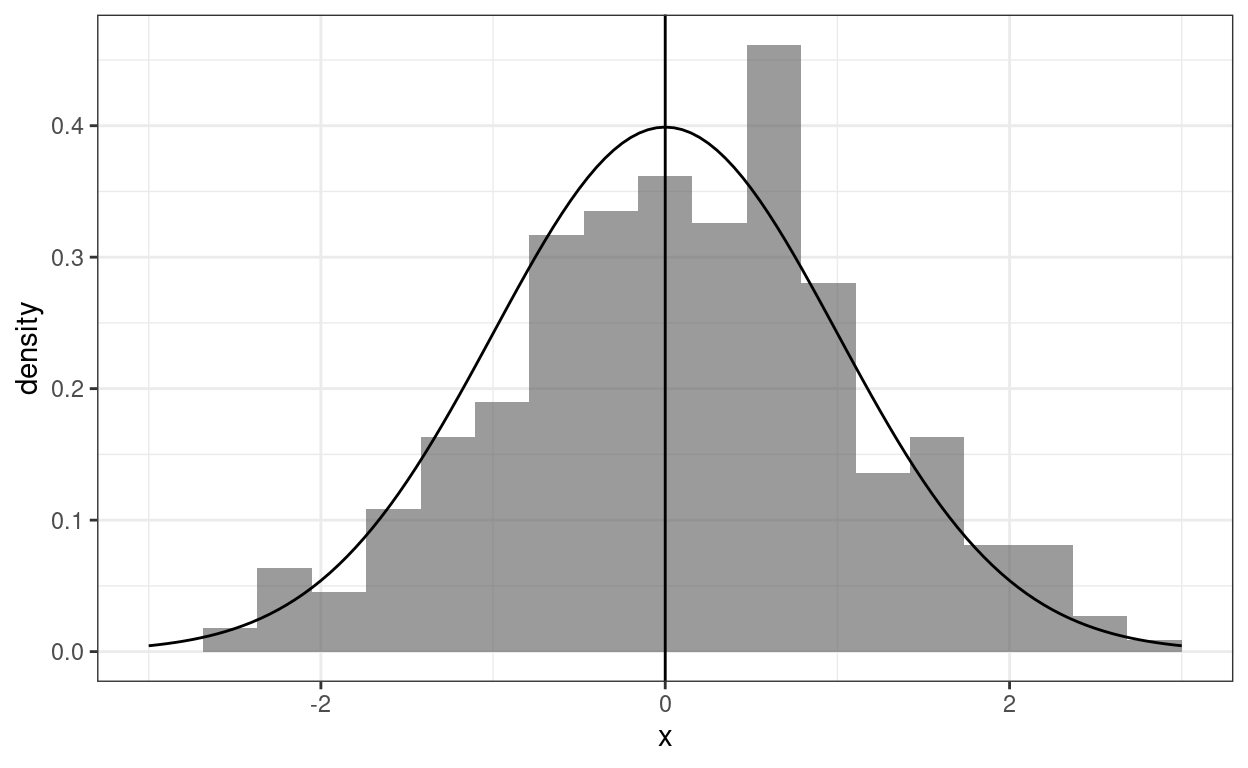
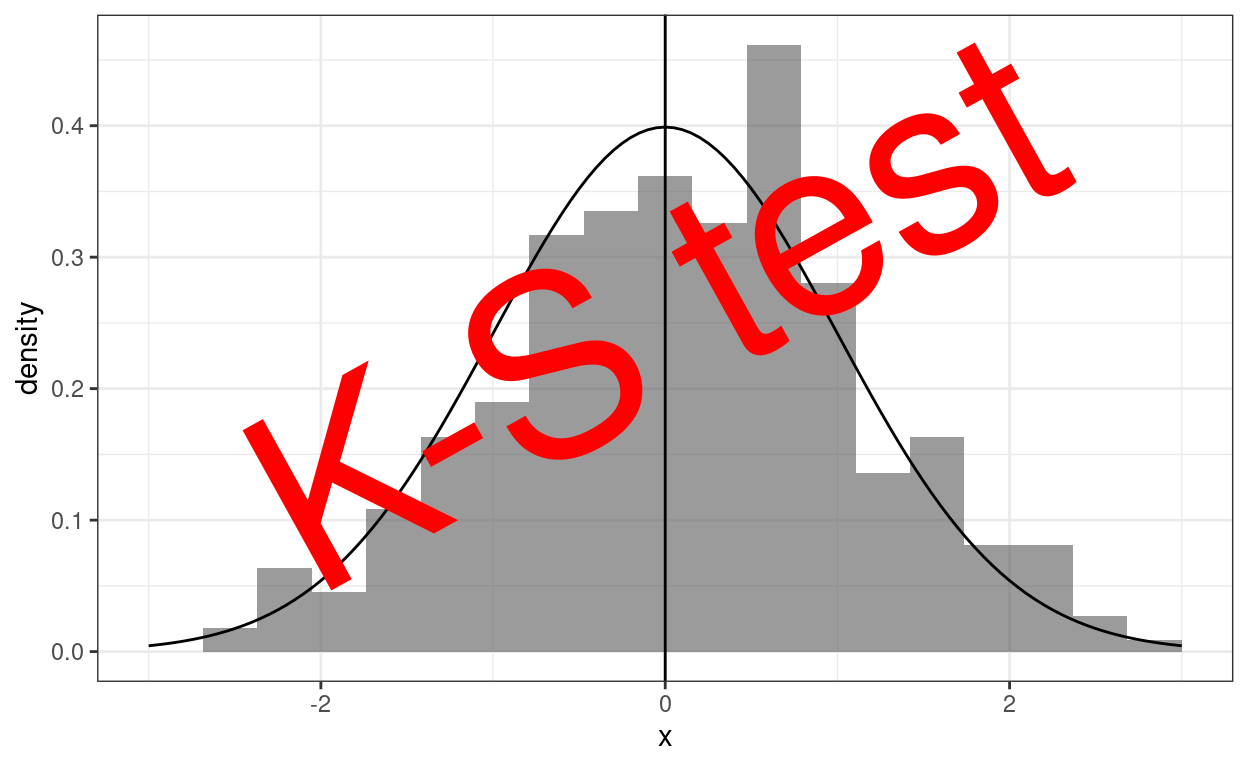
Tweaking the graphics of K-S test, distribution plots and distribution tests

Changed region(s): [[0.5312, 0.0625, 0.875, 0.4688], [0.3438, 0.3438, 0.5312, 0.625], [0.1875, 0.4688, 0.375, 0.7812]]

diff --git a/_site/posts/2023-11-18-explore-distributions-with-plots/index.html b/_site/posts/2023-11-18-explore-distributions-with-plots/index.html
@@ -133,7 +133,7 @@ code span.wa { color: #5e5e5e; font-style: italic; } /* Warning */
   <!--radix_placeholder_rmarkdown_metadata-->
 
 <script type="text/json" id="radix-rmarkdown-metadata">
-{"type":"list","attributes":{"names":{"type":"character","attributes":{},"value":["title","description","author","preview","date","categories","output","creative_commons","citation_url","canonical_url"]}},"value":[{"type":"character","attributes":{},"value":["Explore distributions with plots"]},{"type":"character","attributes":{},"value":["Graphical exploration of fit between distributions and against theoretical distributions."]},{"type":"list","attributes":{},"value":[{"type":"list","attributes":{"names":{"type":"character","attributes":{},"value":["name","url","affiliation","affiliation_url","orcid_id"]}},"value":[{"type":"character","attributes":{},"value":["Chris Evans"]},{"type":"character","attributes":{},"value":["https://www.psyctc.org/R_blog/"]},{"type":"character","attributes":{},"value":["PSYCTC.org"]},{"type":"character","attributes":{},"value":["https://www.psyctc.org/psyctc/"]},{"type":"character","attributes":{},"value":["0000-0002-4197-4202"]}]}]},{"type":"character","attributes":{},"value":["KStest.png"]},{"type":"character","attributes":{},"value":["2023-11-18"]},{"type":"character","attributes":{},"value":["R tricks","R graphics","distributions","Null hypothesis tests (NHSTs)","Gaussian distribution"]},{"type":"list","attributes":{"names":{"type":"character","attributes":{},"value":["distill::distill_article"]}},"value":[{"type":"list","attributes":{"names":{"type":"character","attributes":{},"value":["toc","toc_depth","hightlight_downlit","self_contained","code_folding"]}},"value":[{"type":"logical","attributes":{},"value":[true]},{"type":"integer","attributes":{},"value":[4]},{"type":"logical","attributes":{},"value":[true]},{"type":"logical","attributes":{},"value":[false]},{"type":"logical","attributes":{},"value":[true]}]}]},{"type":"character","attributes":{},"value":["CC BY-SA"]},{"type":"character","attributes":{},"value":["https://www.psyctc.org/R_blog/posts/2023-11-18-explore-distributions-with-plots/"]},{"type":"character","attributes":{},"value":["https://www.psyctc.org/R_blog/posts/2023-11-18-explore-distributions-with-plots/"]}]}
+{"type":"list","attributes":{"names":{"type":"character","attributes":{},"value":["title","description","author","preview","date","categories","output","creative_commons","citation_url","canonical_url"]}},"value":[{"type":"character","attributes":{},"value":["Explore distributions with plots"]},{"type":"character","attributes":{},"value":["Graphical exploration of fit between distributions and against theoretical distributions."]},{"type":"list","attributes":{},"value":[{"type":"list","attributes":{"names":{"type":"character","attributes":{},"value":["name","url","affiliation","affiliation_url","orcid_id"]}},"value":[{"type":"character","attributes":{},"value":["Chris Evans"]},{"type":"character","attributes":{},"value":["https://www.psyctc.org/R_blog/"]},{"type":"character","attributes":{},"value":["PSYCTC.org"]},{"type":"character","attributes":{},"value":["https://www.psyctc.org/psyctc/"]},{"type":"character","attributes":{},"value":["0000-0002-4197-4202"]}]}]},{"type":"character","attributes":{},"value":["distPlots.png"]},{"type":"character","attributes":{},"value":["2023-11-18"]},{"type":"character","attributes":{},"value":["R tricks","R graphics","distributions","Null hypothesis tests (NHSTs)","Gaussian distribution"]},{"type":"list","attributes":{"names":{"type":"character","attributes":{},"value":["distill::distill_article"]}},"value":[{"type":"list","attributes":{"names":{"type":"character","attributes":{},"value":["toc","toc_depth","hightlight_downlit","self_contained","code_folding"]}},"value":[{"type":"logical","attributes":{},"value":[true]},{"type":"integer","attributes":{},"value":[4]},{"type":"logical","attributes":{},"value":[true]},{"type":"logical","attributes":{},"value":[false]},{"type":"logical","attributes":{},"value":[true]}]}]},{"type":"character","attributes":{},"value":["CC BY-SA"]},{"type":"character","attributes":{},"value":["https://www.psyctc.org/R_blog/posts/2023-11-18-explore-distributions-with-plots/"]},{"type":"character","attributes":{},"value":["https://www.psyctc.org/R_blog/posts/2023-11-18-explore-distributions-with-plots/"]}]}
 </script>
 <!--/radix_placeholder_rmarkdown_metadata-->
   
@@ -2611,7 +2611,16 @@ Show code
 <span>  <span class='fu'><a href='https://ggplot2.tidyverse.org/reference/geom_path.html'>geom_line</a></span><span class='op'>(</span>data <span class='op'>=</span> <span class='va'>tibDnorm</span>,</span>
 <span>            inherit.aes <span class='op'>=</span> <span class='cn'>FALSE</span>,</span>
 <span>            <span class='fu'><a href='https://ggplot2.tidyverse.org/reference/aes.html'>aes</a></span><span class='op'>(</span>x <span class='op'>=</span> <span class='va'>x</span>, y <span class='op'>=</span> <span class='va'>y</span><span class='op'>)</span><span class='op'>)</span>  <span class='op'>+</span></span>
-<span>  <span class='fu'><a href='https://ggplot2.tidyverse.org/reference/geom_abline.html'>geom_vline</a></span><span class='op'>(</span>xintercept <span class='op'>=</span> <span class='fl'>0</span><span class='op'>)</span></span></code></pre>
+<span>  <span class='fu'><a href='https://ggplot2.tidyverse.org/reference/geom_abline.html'>geom_vline</a></span><span class='op'>(</span>xintercept <span class='op'>=</span> <span class='fl'>0</span><span class='op'>)</span> <span class='op'>+</span></span>
+<span>  <span class='co'>### paramters work for knitted output</span></span>
+<span>  <span class='fu'><a href='https://ggplot2.tidyverse.org/reference/annotate.html'>annotate</a></span><span class='op'>(</span><span class='st'>"text"</span>,</span>
+<span>           label <span class='op'>=</span> <span class='st'>"Distribution plots"</span>,</span>
+<span>           x <span class='op'>=</span> <span class='op'>-</span><span class='fl'>2.8</span>,</span>
+<span>           y <span class='op'>=</span> <span class='fl'>.07</span>,</span>
+<span>           colour <span class='op'>=</span> <span class='st'>"red"</span>,</span>
+<span>           size <span class='op'>=</span> <span class='fl'>19</span>,</span>
+<span>           angle <span class='op'>=</span> <span class='fl'>29</span>,</span>
+<span>           hjust <span class='op'>=</span> <span class='fl'>0</span><span class='op'>)</span></span></code></pre>
 </div>
 </details>
 <img src="explore-distributions-with-plots_files/figure-html5/makegraphic-1.png" width="624" />
@@ -2620,7 +2629,30 @@ Show code
 Show code
 </summary>
 <div class="sourceCode">
-<pre class="sourceCode r"><code class="sourceCode r"><span><span class='co'># dev.off()</span></span></code></pre>
+<pre class="sourceCode r"><code class="sourceCode r"><span><span class='co'># dev.off()</span></span>
+<span></span>
+<span><span class='co'>### different sizing to get nice png</span></span>
+<span><span class='co'># png(file = "distPlots.png", type = "cairo", width = 6000, height = 4800, res = 300)</span></span>
+<span><span class='co'># ggplot(data = tibRnorm,</span></span>
+<span><span class='co'>#        aes(x = x)) +</span></span>
+<span><span class='co'>#   geom_histogram(aes(x = x,</span></span>
+<span><span class='co'>#                      after_stat(density)),</span></span>
+<span><span class='co'>#                  bins = 20,</span></span>
+<span><span class='co'>#                  alpha = .6) +</span></span>
+<span><span class='co'>#   geom_line(data = tibDnorm,</span></span>
+<span><span class='co'>#             inherit.aes = FALSE,</span></span>
+<span><span class='co'>#             aes(x = x, y = y))  +</span></span>
+<span><span class='co'>#   geom_vline(xintercept = 0) +</span></span>
+<span><span class='co'>#   ### changed parameters for the png</span></span>
+<span><span class='co'>#   annotate("text",</span></span>
+<span><span class='co'>#            label = "Dist. plots",</span></span>
+<span><span class='co'>#            x = -2.5,</span></span>
+<span><span class='co'>#            y = .1,</span></span>
+<span><span class='co'>#            colour = "red",</span></span>
+<span><span class='co'>#            size = 95,</span></span>
+<span><span class='co'>#            angle = 32,</span></span>
+<span><span class='co'>#            hjust = 0)</span></span>
+<span><span class='co'># dev.off()</span></span></code></pre>
 </div>
 </details>
 </div>

diff --git a/_site/posts/2023-11-15-test-fit-to-gaussian/index.html b/_site/posts/2023-11-15-test-fit-to-gaussian/index.html
@@ -133,7 +133,7 @@ code span.wa { color: #5e5e5e; font-style: italic; } /* Warning */
   <!--radix_placeholder_rmarkdown_metadata-->
 
 <script type="text/json" id="radix-rmarkdown-metadata">
-{"type":"list","attributes":{"names":{"type":"character","attributes":{},"value":["title","description","author","preview","date","categories","output","creative_commons","citation_url","canonical_url"]}},"value":[{"type":"character","attributes":{},"value":["Tests of fit to Gaussian distribution"]},{"type":"character","attributes":{},"value":["Introduction to four tests of fit to Gaussian distribution available in R"]},{"type":"list","attributes":{},"value":[{"type":"list","attributes":{"names":{"type":"character","attributes":{},"value":["name","url","affiliation","affiliation_url","orcid_id"]}},"value":[{"type":"character","attributes":{},"value":["Chris Evans"]},{"type":"character","attributes":{},"value":["https://www.psyctc.org/R_blog/"]},{"type":"character","attributes":{},"value":["PSYCTC.org"]},{"type":"character","attributes":{},"value":["https://www.psyctc.org/psyctc/"]},{"type":"character","attributes":{},"value":["0000-0002-4197-4202"]}]}]},{"type":"character","attributes":{},"value":["KStest.png"]},{"type":"character","attributes":{},"value":["2023-11-15"]},{"type":"character","attributes":{},"value":["R tricks","distributions","distribution tests","Null hypothesis tests (NHSTs)","Gaussian distribution"]},{"type":"list","attributes":{"names":{"type":"character","attributes":{},"value":["distill::distill_article"]}},"value":[{"type":"list","attributes":{"names":{"type":"character","attributes":{},"value":["toc","toc_depth","hightlight_downlit","self_contained","code_folding"]}},"value":[{"type":"logical","attributes":{},"value":[true]},{"type":"integer","attributes":{},"value":[4]},{"type":"logical","attributes":{},"value":[true]},{"type":"logical","attributes":{},"value":[false]},{"type":"logical","attributes":{},"value":[true]}]}]},{"type":"character","attributes":{},"value":["CC BY-SA"]},{"type":"character","attributes":{},"value":["https://www.psyctc.org/R_blog/posts/2023-11-15-test-fit-to-gaussian/"]},{"type":"character","attributes":{},"value":["https://www.psyctc.org/R_blog/posts/2023-11-15-test-fit-to-gaussian/"]}]}
+{"type":"list","attributes":{"names":{"type":"character","attributes":{},"value":["title","description","author","preview","date","categories","output","creative_commons","citation_url","canonical_url"]}},"value":[{"type":"character","attributes":{},"value":["Tests of fit to Gaussian distribution"]},{"type":"character","attributes":{},"value":["Introduction to four tests of fit to Gaussian distribution available in R"]},{"type":"list","attributes":{},"value":[{"type":"list","attributes":{"names":{"type":"character","attributes":{},"value":["name","url","affiliation","affiliation_url","orcid_id"]}},"value":[{"type":"character","attributes":{},"value":["Chris Evans"]},{"type":"character","attributes":{},"value":["https://www.psyctc.org/R_blog/"]},{"type":"character","attributes":{},"value":["PSYCTC.org"]},{"type":"character","attributes":{},"value":["https://www.psyctc.org/psyctc/"]},{"type":"character","attributes":{},"value":["0000-0002-4197-4202"]}]}]},{"type":"character","attributes":{},"value":["fitTests.png"]},{"type":"character","attributes":{},"value":["2023-11-15"]},{"type":"character","attributes":{},"value":["R tricks","distributions","distribution tests","Null hypothesis tests (NHSTs)","Gaussian distribution"]},{"type":"list","attributes":{"names":{"type":"character","attributes":{},"value":["distill::distill_article"]}},"value":[{"type":"list","attributes":{"names":{"type":"character","attributes":{},"value":["toc","toc_depth","hightlight_downlit","self_contained","code_folding"]}},"value":[{"type":"logical","attributes":{},"value":[true]},{"type":"integer","attributes":{},"value":[4]},{"type":"logical","attributes":{},"value":[true]},{"type":"logical","attributes":{},"value":[false]},{"type":"logical","attributes":{},"value":[true]}]}]},{"type":"character","attributes":{},"value":["CC BY-SA"]},{"type":"character","attributes":{},"value":["https://www.psyctc.org/R_blog/posts/2023-11-15-test-fit-to-gaussian/"]},{"type":"character","attributes":{},"value":["https://www.psyctc.org/R_blog/posts/2023-11-15-test-fit-to-gaussian/"]}]}
 </script>
 <!--/radix_placeholder_rmarkdown_metadata-->
   
@@ -2620,7 +2620,16 @@ Show code
 <span>  <span class='fu'><a href='https://ggplot2.tidyverse.org/reference/geom_path.html'>geom_line</a></span><span class='op'>(</span>data <span class='op'>=</span> <span class='va'>tibDnorm</span>,</span>
 <span>            inherit.aes <span class='op'>=</span> <span class='cn'>FALSE</span>,</span>
 <span>            <span class='fu'><a href='https://ggplot2.tidyverse.org/reference/aes.html'>aes</a></span><span class='op'>(</span>x <span class='op'>=</span> <span class='va'>x</span>, y <span class='op'>=</span> <span class='va'>y</span><span class='op'>)</span><span class='op'>)</span>  <span class='op'>+</span></span>
-<span>  <span class='fu'><a href='https://ggplot2.tidyverse.org/reference/geom_abline.html'>geom_vline</a></span><span class='op'>(</span>xintercept <span class='op'>=</span> <span class='fl'>0</span><span class='op'>)</span></span></code></pre>
+<span>  <span class='fu'><a href='https://ggplot2.tidyverse.org/reference/geom_abline.html'>geom_vline</a></span><span class='op'>(</span>xintercept <span class='op'>=</span> <span class='fl'>0</span><span class='op'>)</span> <span class='op'>+</span></span>
+<span>  <span class='co'>### paramters work for knitted output</span></span>
+<span>  <span class='fu'><a href='https://ggplot2.tidyverse.org/reference/annotate.html'>annotate</a></span><span class='op'>(</span><span class='st'>"text"</span>,</span>
+<span>           label <span class='op'>=</span> <span class='st'>"Tests of fit"</span>,</span>
+<span>           x <span class='op'>=</span> <span class='op'>-</span><span class='fl'>2.3</span>,</span>
+<span>           y <span class='op'>=</span> <span class='fl'>.1</span>,</span>
+<span>           colour <span class='op'>=</span> <span class='st'>"red"</span>,</span>
+<span>           size <span class='op'>=</span> <span class='fl'>26</span>,</span>
+<span>           angle <span class='op'>=</span> <span class='fl'>29</span>,</span>
+<span>           hjust <span class='op'>=</span> <span class='fl'>0</span><span class='op'>)</span></span></code></pre>
 </div>
 </details>
 <img src="test-fit-to-gaussian_files/figure-html5/makegraphic-1.png" width="624" />
@@ -2629,7 +2638,30 @@ Show code
 Show code
 </summary>
 <div class="sourceCode">
-<pre class="sourceCode r"><code class="sourceCode r"><span><span class='co'># dev.off()</span></span></code></pre>
+<pre class="sourceCode r"><code class="sourceCode r"><span><span class='co'># dev.off()</span></span>
+<span></span>
+<span><span class='co'>### different sizing to get nice png</span></span>
+<span><span class='co'># png(file = "fitTests.png", type = "cairo", width = 6000, height = 4800, res = 300)</span></span>
+<span><span class='co'># ggplot(data = tibRnorm,</span></span>
+<span><span class='co'>#        aes(x = x)) +</span></span>
+<span><span class='co'>#   geom_histogram(aes(x = x,</span></span>
+<span><span class='co'>#                      after_stat(density)),</span></span>
+<span><span class='co'>#                  bins = 20,</span></span>
+<span><span class='co'>#                  alpha = .6) +</span></span>
+<span><span class='co'>#   geom_line(data = tibDnorm,</span></span>
+<span><span class='co'>#             inherit.aes = FALSE,</span></span>
+<span><span class='co'>#             aes(x = x, y = y))  +</span></span>
+<span><span class='co'>#   geom_vline(xintercept = 0) +</span></span>
+<span><span class='co'>#   ### changed parameters for the png</span></span>
+<span><span class='co'>#   annotate("text",</span></span>
+<span><span class='co'>#            label = "Tests of fit",</span></span>
+<span><span class='co'>#            x = -2.5,</span></span>
+<span><span class='co'>#            y = .1,</span></span>
+<span><span class='co'>#            colour = "red",</span></span>
+<span><span class='co'>#            size = 100,</span></span>
+<span><span class='co'>#            angle = 32,</span></span>
+<span><span class='co'>#            hjust = 0)</span></span>
+<span><span class='co'># dev.off()</span></span></code></pre>
 </div>
 </details>
 </div>

diff --git a/_posts/2023-11-18-explore-distributions-with-plots/explore-distributions-with-plots.html b/_posts/2023-11-18-explore-distributions-with-plots/explore-distributions-with-plots.html
@@ -114,7 +114,7 @@ code span.wa { color: #5e5e5e; font-style: italic; } /* Warning */
   <!--radix_placeholder_rmarkdown_metadata-->
 
   <script type="text/json" id="radix-rmarkdown-metadata">
-  {"type":"list","attributes":{"names":{"type":"character","attributes":{},"value":["title","description","author","preview","date","categories","output","creative_commons"]}},"value":[{"type":"character","attributes":{},"value":["Explore distributions with plots"]},{"type":"character","attributes":{},"value":["Graphical exploration of fit between distributions and against theoretical distributions.\n"]},{"type":"list","attributes":{},"value":[{"type":"list","attributes":{"names":{"type":"character","attributes":{},"value":["name","url","affiliation","affiliation_url","orcid_id"]}},"value":[{"type":"character","attributes":{},"value":["Chris Evans"]},{"type":"character","attributes":{},"value":["https://www.psyctc.org/R_blog/"]},{"type":"character","attributes":{},"value":["PSYCTC.org"]},{"type":"character","attributes":{},"value":["https://www.psyctc.org/psyctc/"]},{"type":"character","attributes":{},"value":["0000-0002-4197-4202"]}]}]},{"type":"character","attributes":{},"value":["KStest.png"]},{"type":"character","attributes":{},"value":["2023-11-18"]},{"type":"character","attributes":{},"value":["R tricks","R graphics","distributions","Null hypothesis tests (NHSTs)","Gaussian distribution"]},{"type":"list","attributes":{"names":{"type":"character","attributes":{},"value":["distill::distill_article"]}},"value":[{"type":"list","attributes":{"names":{"type":"character","attributes":{},"value":["toc","toc_depth","hightlight_downlit","self_contained","code_folding"]}},"value":[{"type":"logical","attributes":{},"value":[true]},{"type":"integer","attributes":{},"value":[4]},{"type":"logical","attributes":{},"value":[true]},{"type":"logical","attributes":{},"value":[false]},{"type":"logical","attributes":{},"value":[true]}]}]},{"type":"character","attributes":{},"value":["CC BY-SA"]}]}
+  {"type":"list","attributes":{"names":{"type":"character","attributes":{},"value":["title","description","author","preview","date","categories","output","creative_commons"]}},"value":[{"type":"character","attributes":{},"value":["Explore distributions with plots"]},{"type":"character","attributes":{},"value":["Graphical exploration of fit between distributions and against theoretical distributions.\n"]},{"type":"list","attributes":{},"value":[{"type":"list","attributes":{"names":{"type":"character","attributes":{},"value":["name","url","affiliation","affiliation_url","orcid_id"]}},"value":[{"type":"character","attributes":{},"value":["Chris Evans"]},{"type":"character","attributes":{},"value":["https://www.psyctc.org/R_blog/"]},{"type":"character","attributes":{},"value":["PSYCTC.org"]},{"type":"character","attributes":{},"value":["https://www.psyctc.org/psyctc/"]},{"type":"character","attributes":{},"value":["0000-0002-4197-4202"]}]}]},{"type":"character","attributes":{},"value":["distPlots.png"]},{"type":"character","attributes":{},"value":["2023-11-18"]},{"type":"character","attributes":{},"value":["R tricks","R graphics","distributions","Null hypothesis tests (NHSTs)","Gaussian distribution"]},{"type":"list","attributes":{"names":{"type":"character","attributes":{},"value":["distill::distill_article"]}},"value":[{"type":"list","attributes":{"names":{"type":"character","attributes":{},"value":["toc","toc_depth","hightlight_downlit","self_contained","code_folding"]}},"value":[{"type":"logical","attributes":{},"value":[true]},{"type":"integer","attributes":{},"value":[4]},{"type":"logical","attributes":{},"value":[true]},{"type":"logical","attributes":{},"value":[false]},{"type":"logical","attributes":{},"value":[true]}]}]},{"type":"character","attributes":{},"value":["CC BY-SA"]}]}
   </script>
   <!--/radix_placeholder_rmarkdown_metadata-->
   
@@ -1590,7 +1590,16 @@ Show code
 <span>  <span class='fu'><a href='https://ggplot2.tidyverse.org/reference/geom_path.html'>geom_line</a></span><span class='op'>(</span>data <span class='op'>=</span> <span class='va'>tibDnorm</span>,</span>
 <span>            inherit.aes <span class='op'>=</span> <span class='cn'>FALSE</span>,</span>
 <span>            <span class='fu'><a href='https://ggplot2.tidyverse.org/reference/aes.html'>aes</a></span><span class='op'>(</span>x <span class='op'>=</span> <span class='va'>x</span>, y <span class='op'>=</span> <span class='va'>y</span><span class='op'>)</span><span class='op'>)</span>  <span class='op'>+</span></span>
-<span>  <span class='fu'><a href='https://ggplot2.tidyverse.org/reference/geom_abline.html'>geom_vline</a></span><span class='op'>(</span>xintercept <span class='op'>=</span> <span class='fl'>0</span><span class='op'>)</span></span></code></pre>
+<span>  <span class='fu'><a href='https://ggplot2.tidyverse.org/reference/geom_abline.html'>geom_vline</a></span><span class='op'>(</span>xintercept <span class='op'>=</span> <span class='fl'>0</span><span class='op'>)</span> <span class='op'>+</span></span>
+<span>  <span class='co'>### paramters work for knitted output</span></span>
+<span>  <span class='fu'><a href='https://ggplot2.tidyverse.org/reference/annotate.html'>annotate</a></span><span class='op'>(</span><span class='st'>"text"</span>,</span>
+<span>           label <span class='op'>=</span> <span class='st'>"Distribution plots"</span>,</span>
+<span>           x <span class='op'>=</span> <span class='op'>-</span><span class='fl'>2.8</span>,</span>
+<span>           y <span class='op'>=</span> <span class='fl'>.07</span>,</span>
+<span>           colour <span class='op'>=</span> <span class='st'>"red"</span>,</span>
+<span>           size <span class='op'>=</span> <span class='fl'>19</span>,</span>
+<span>           angle <span class='op'>=</span> <span class='fl'>29</span>,</span>
+<span>           hjust <span class='op'>=</span> <span class='fl'>0</span><span class='op'>)</span></span></code></pre>
 </div>
 </details>
 <img src="explore-distributions-with-plots_files/figure-html5/makegraphic-1.png" width="624" />
@@ -1599,7 +1608,30 @@ Show code
 Show code
 </summary>
 <div class="sourceCode">
-<pre class="sourceCode r"><code class="sourceCode r"><span><span class='co'># dev.off()</span></span></code></pre>
+<pre class="sourceCode r"><code class="sourceCode r"><span><span class='co'># dev.off()</span></span>
+<span></span>
+<span><span class='co'>### different sizing to get nice png</span></span>
+<span><span class='co'># png(file = "distPlots.png", type = "cairo", width = 6000, height = 4800, res = 300)</span></span>
+<span><span class='co'># ggplot(data = tibRnorm,</span></span>
+<span><span class='co'>#        aes(x = x)) +</span></span>
+<span><span class='co'>#   geom_histogram(aes(x = x,</span></span>
+<span><span class='co'>#                      after_stat(density)),</span></span>
+<span><span class='co'>#                  bins = 20,</span></span>
+<span><span class='co'>#                  alpha = .6) +</span></span>
+<span><span class='co'>#   geom_line(data = tibDnorm,</span></span>
+<span><span class='co'>#             inherit.aes = FALSE,</span></span>
+<span><span class='co'>#             aes(x = x, y = y))  +</span></span>
+<span><span class='co'>#   geom_vline(xintercept = 0) +</span></span>
+<span><span class='co'>#   ### changed parameters for the png</span></span>
+<span><span class='co'>#   annotate("text",</span></span>
+<span><span class='co'>#            label = "Dist. plots",</span></span>
+<span><span class='co'>#            x = -2.5,</span></span>
+<span><span class='co'>#            y = .1,</span></span>
+<span><span class='co'>#            colour = "red",</span></span>
+<span><span class='co'>#            size = 95,</span></span>
+<span><span class='co'>#            angle = 32,</span></span>
+<span><span class='co'>#            hjust = 0)</span></span>
+<span><span class='co'># dev.off()</span></span></code></pre>
 </div>
 </details>
 </div>

diff --git a/_posts/2023-11-15-test-fit-to-gaussian/test-fit-to-gaussian.html b/_posts/2023-11-15-test-fit-to-gaussian/test-fit-to-gaussian.html
@@ -114,7 +114,7 @@ code span.wa { color: #5e5e5e; font-style: italic; } /* Warning */
   <!--radix_placeholder_rmarkdown_metadata-->
 
   <script type="text/json" id="radix-rmarkdown-metadata">
-  {"type":"list","attributes":{"names":{"type":"character","attributes":{},"value":["title","description","author","preview","date","categories","output","creative_commons"]}},"value":[{"type":"character","attributes":{},"value":["Tests of fit to Gaussian distribution"]},{"type":"character","attributes":{},"value":["Introduction to four tests of fit to Gaussian distribution available in R\n"]},{"type":"list","attributes":{},"value":[{"type":"list","attributes":{"names":{"type":"character","attributes":{},"value":["name","url","affiliation","affiliation_url","orcid_id"]}},"value":[{"type":"character","attributes":{},"value":["Chris Evans"]},{"type":"character","attributes":{},"value":["https://www.psyctc.org/R_blog/"]},{"type":"character","attributes":{},"value":["PSYCTC.org"]},{"type":"character","attributes":{},"value":["https://www.psyctc.org/psyctc/"]},{"type":"character","attributes":{},"value":["0000-0002-4197-4202"]}]}]},{"type":"character","attributes":{},"value":["KStest.png"]},{"type":"character","attributes":{},"value":["2023-11-15"]},{"type":"character","attributes":{},"value":["R tricks","distributions","distribution tests","Null hypothesis tests (NHSTs)","Gaussian distribution"]},{"type":"list","attributes":{"names":{"type":"character","attributes":{},"value":["distill::distill_article"]}},"value":[{"type":"list","attributes":{"names":{"type":"character","attributes":{},"value":["toc","toc_depth","hightlight_downlit","self_contained","code_folding"]}},"value":[{"type":"logical","attributes":{},"value":[true]},{"type":"integer","attributes":{},"value":[4]},{"type":"logical","attributes":{},"value":[true]},{"type":"logical","attributes":{},"value":[false]},{"type":"logical","attributes":{},"value":[true]}]}]},{"type":"character","attributes":{},"value":["CC BY-SA"]}]}
+  {"type":"list","attributes":{"names":{"type":"character","attributes":{},"value":["title","description","author","preview","date","categories","output","creative_commons"]}},"value":[{"type":"character","attributes":{},"value":["Tests of fit to Gaussian distribution"]},{"type":"character","attributes":{},"value":["Introduction to four tests of fit to Gaussian distribution available in R\n"]},{"type":"list","attributes":{},"value":[{"type":"list","attributes":{"names":{"type":"character","attributes":{},"value":["name","url","affiliation","affiliation_url","orcid_id"]}},"value":[{"type":"character","attributes":{},"value":["Chris Evans"]},{"type":"character","attributes":{},"value":["https://www.psyctc.org/R_blog/"]},{"type":"character","attributes":{},"value":["PSYCTC.org"]},{"type":"character","attributes":{},"value":["https://www.psyctc.org/psyctc/"]},{"type":"character","attributes":{},"value":["0000-0002-4197-4202"]}]}]},{"type":"character","attributes":{},"value":["fitTests.png"]},{"type":"character","attributes":{},"value":["2023-11-15"]},{"type":"character","attributes":{},"value":["R tricks","distributions","distribution tests","Null hypothesis tests (NHSTs)","Gaussian distribution"]},{"type":"list","attributes":{"names":{"type":"character","attributes":{},"value":["distill::distill_article"]}},"value":[{"type":"list","attributes":{"names":{"type":"character","attributes":{},"value":["toc","toc_depth","hightlight_downlit","self_contained","code_folding"]}},"value":[{"type":"logical","attributes":{},"value":[true]},{"type":"integer","attributes":{},"value":[4]},{"type":"logical","attributes":{},"value":[true]},{"type":"logical","attributes":{},"value":[false]},{"type":"logical","attributes":{},"value":[true]}]}]},{"type":"character","attributes":{},"value":["CC BY-SA"]}]}
   </script>
   <!--/radix_placeholder_rmarkdown_metadata-->
   
@@ -1599,7 +1599,16 @@ Show code
 <span>  <span class='fu'><a href='https://ggplot2.tidyverse.org/reference/geom_path.html'>geom_line</a></span><span class='op'>(</span>data <span class='op'>=</span> <span class='va'>tibDnorm</span>,</span>
 <span>            inherit.aes <span class='op'>=</span> <span class='cn'>FALSE</span>,</span>
 <span>            <span class='fu'><a href='https://ggplot2.tidyverse.org/reference/aes.html'>aes</a></span><span class='op'>(</span>x <span class='op'>=</span> <span class='va'>x</span>, y <span class='op'>=</span> <span class='va'>y</span><span class='op'>)</span><span class='op'>)</span>  <span class='op'>+</span></span>
-<span>  <span class='fu'><a href='https://ggplot2.tidyverse.org/reference/geom_abline.html'>geom_vline</a></span><span class='op'>(</span>xintercept <span class='op'>=</span> <span class='fl'>0</span><span class='op'>)</span></span></code></pre>
+<span>  <span class='fu'><a href='https://ggplot2.tidyverse.org/reference/geom_abline.html'>geom_vline</a></span><span class='op'>(</span>xintercept <span class='op'>=</span> <span class='fl'>0</span><span class='op'>)</span> <span class='op'>+</span></span>
+<span>  <span class='co'>### paramters work for knitted output</span></span>
+<span>  <span class='fu'><a href='https://ggplot2.tidyverse.org/reference/annotate.html'>annotate</a></span><span class='op'>(</span><span class='st'>"text"</span>,</span>
+<span>           label <span class='op'>=</span> <span class='st'>"Tests of fit"</span>,</span>
+<span>           x <span class='op'>=</span> <span class='op'>-</span><span class='fl'>2.3</span>,</span>
+<span>           y <span class='op'>=</span> <span class='fl'>.1</span>,</span>
+<span>           colour <span class='op'>=</span> <span class='st'>"red"</span>,</span>
+<span>           size <span class='op'>=</span> <span class='fl'>26</span>,</span>
+<span>           angle <span class='op'>=</span> <span class='fl'>29</span>,</span>
+<span>           hjust <span class='op'>=</span> <span class='fl'>0</span><span class='op'>)</span></span></code></pre>
 </div>
 </details>
 <img src="test-fit-to-gaussian_files/figure-html5/makegraphic-1.png" width="624" />
@@ -1608,7 +1617,30 @@ Show code
 Show code
 </summary>
 <div class="sourceCode">
-<pre class="sourceCode r"><code class="sourceCode r"><span><span class='co'># dev.off()</span></span></code></pre>
+<pre class="sourceCode r"><code class="sourceCode r"><span><span class='co'># dev.off()</span></span>
+<span></span>
+<span><span class='co'>### different sizing to get nice png</span></span>
+<span><span class='co'># png(file = "fitTests.png", type = "cairo", width = 6000, height = 4800, res = 300)</span></span>
+<span><span class='co'># ggplot(data = tibRnorm,</span></span>
+<span><span class='co'>#        aes(x = x)) +</span></span>
+<span><span class='co'>#   geom_histogram(aes(x = x,</span></span>
+<span><span class='co'>#                      after_stat(density)),</span></span>
+<span><span class='co'>#                  bins = 20,</span></span>
+<span><span class='co'>#                  alpha = .6) +</span></span>
+<span><span class='co'>#   geom_line(data = tibDnorm,</span></span>
+<span><span class='co'>#             inherit.aes = FALSE,</span></span>
+<span><span class='co'>#             aes(x = x, y = y))  +</span></span>
+<span><span class='co'>#   geom_vline(xintercept = 0) +</span></span>
+<span><span class='co'>#   ### changed parameters for the png</span></span>
+<span><span class='co'>#   annotate("text",</span></span>
+<span><span class='co'>#            label = "Tests of fit",</span></span>
+<span><span class='co'>#            x = -2.5,</span></span>
+<span><span class='co'>#            y = .1,</span></span>
+<span><span class='co'>#            colour = "red",</span></span>
+<span><span class='co'>#            size = 100,</span></span>
+<span><span class='co'>#            angle = 32,</span></span>
+<span><span class='co'>#            hjust = 0)</span></span>
+<span><span class='co'># dev.off()</span></span></code></pre>
 </div>
 </details>
 </div>

diff --git a/_posts/2023-11-11-ks-test/ks-test.html b/_posts/2023-11-11-ks-test/ks-test.html
@@ -1611,7 +1611,16 @@ Show code
 <span>  <span class='fu'><a href='https://ggplot2.tidyverse.org/reference/geom_path.html'>geom_line</a></span><span class='op'>(</span>data <span class='op'>=</span> <span class='va'>tibDnorm</span>,</span>
 <span>            inherit.aes <span class='op'>=</span> <span class='cn'>FALSE</span>,</span>
 <span>            <span class='fu'><a href='https://ggplot2.tidyverse.org/reference/aes.html'>aes</a></span><span class='op'>(</span>x <span class='op'>=</span> <span class='va'>x</span>, y <span class='op'>=</span> <span class='va'>y</span><span class='op'>)</span><span class='op'>)</span>  <span class='op'>+</span></span>
-<span>  <span class='fu'><a href='https://ggplot2.tidyverse.org/reference/geom_abline.html'>geom_vline</a></span><span class='op'>(</span>xintercept <span class='op'>=</span> <span class='fl'>0</span><span class='op'>)</span></span></code></pre>
+<span>  <span class='fu'><a href='https://ggplot2.tidyverse.org/reference/geom_abline.html'>geom_vline</a></span><span class='op'>(</span>xintercept <span class='op'>=</span> <span class='fl'>0</span><span class='op'>)</span> <span class='op'>+</span></span>
+<span>  <span class='co'>### paramters work for knitted output</span></span>
+<span>  <span class='fu'><a href='https://ggplot2.tidyverse.org/reference/annotate.html'>annotate</a></span><span class='op'>(</span><span class='st'>"text"</span>,</span>
+<span>           label <span class='op'>=</span> <span class='st'>"K-S test"</span>,</span>
+<span>           x <span class='op'>=</span> <span class='op'>-</span><span class='fl'>2.3</span>,</span>
+<span>           y <span class='op'>=</span> <span class='fl'>.1</span>,</span>
+<span>           colour <span class='op'>=</span> <span class='st'>"red"</span>,</span>
+<span>           size <span class='op'>=</span> <span class='fl'>33</span>,</span>
+<span>           angle <span class='op'>=</span> <span class='fl'>29</span>,</span>
+<span>           hjust <span class='op'>=</span> <span class='fl'>0</span><span class='op'>)</span></span></code></pre>
 </div>
 </details>
 <img src="ks-test_files/figure-html5/makegraphic-1.png" width="624" />
@@ -1620,7 +1629,30 @@ Show code
 Show code
 </summary>
 <div class="sourceCode">
-<pre class="sourceCode r"><code class="sourceCode r"><span><span class='co'># dev.off()</span></span></code></pre>
+<pre class="sourceCode r"><code class="sourceCode r"><span><span class='co'># dev.off()</span></span>
+<span></span>
+<span><span class='co'>### different sizing to get nice png</span></span>
+<span><span class='co'># png(file = "KStest.png", type = "cairo", width = 6000, height = 4800, res = 300)</span></span>
+<span><span class='co'># ggplot(data = tibRnorm,</span></span>
+<span><span class='co'>#        aes(x = x)) +</span></span>
+<span><span class='co'>#   geom_histogram(aes(x = x,</span></span>
+<span><span class='co'>#                      after_stat(density)),</span></span>
+<span><span class='co'>#                  bins = 20,</span></span>
+<span><span class='co'>#                  alpha = .6) +</span></span>
+<span><span class='co'>#   geom_line(data = tibDnorm,</span></span>
+<span><span class='co'>#             inherit.aes = FALSE,</span></span>
+<span><span class='co'>#             aes(x = x, y = y))  +</span></span>
+<span><span class='co'>#   geom_vline(xintercept = 0) +</span></span>
+<span><span class='co'>#   ### changed parameters for the png</span></span>
+<span><span class='co'>#   annotate("text",</span></span>
+<span><span class='co'>#            label = "K-S test",</span></span>
+<span><span class='co'>#            x = -2.5,</span></span>
+<span><span class='co'>#            y = .1,</span></span>
+<span><span class='co'>#            colour = "red",</span></span>
+<span><span class='co'>#            size = 120,</span></span>
+<span><span class='co'>#            angle = 32,</span></span>
+<span><span class='co'>#            hjust = 0)</span></span>
+<span><span class='co'># dev.off()</span></span></code></pre>
 </div>
 </details>
 </div>

diff --git a/_site/posts/2023-11-11-ks-test/index.html b/_site/posts/2023-11-11-ks-test/index.html
@@ -2632,7 +2632,16 @@ Show code
 <span>  <span class='fu'><a href='https://ggplot2.tidyverse.org/reference/geom_path.html'>geom_line</a></span><span class='op'>(</span>data <span class='op'>=</span> <span class='va'>tibDnorm</span>,</span>
 <span>            inherit.aes <span class='op'>=</span> <span class='cn'>FALSE</span>,</span>
 <span>            <span class='fu'><a href='https://ggplot2.tidyverse.org/reference/aes.html'>aes</a></span><span class='op'>(</span>x <span class='op'>=</span> <span class='va'>x</span>, y <span class='op'>=</span> <span class='va'>y</span><span class='op'>)</span><span class='op'>)</span>  <span class='op'>+</span></span>
-<span>  <span class='fu'><a href='https://ggplot2.tidyverse.org/reference/geom_abline.html'>geom_vline</a></span><span class='op'>(</span>xintercept <span class='op'>=</span> <span class='fl'>0</span><span class='op'>)</span></span></code></pre>
+<span>  <span class='fu'><a href='https://ggplot2.tidyverse.org/reference/geom_abline.html'>geom_vline</a></span><span class='op'>(</span>xintercept <span class='op'>=</span> <span class='fl'>0</span><span class='op'>)</span> <span class='op'>+</span></span>
+<span>  <span class='co'>### paramters work for knitted output</span></span>
+<span>  <span class='fu'><a href='https://ggplot2.tidyverse.org/reference/annotate.html'>annotate</a></span><span class='op'>(</span><span class='st'>"text"</span>,</span>
+<span>           label <span class='op'>=</span> <span class='st'>"K-S test"</span>,</span>
+<span>           x <span class='op'>=</span> <span class='op'>-</span><span class='fl'>2.3</span>,</span>
+<span>           y <span class='op'>=</span> <span class='fl'>.1</span>,</span>
+<span>           colour <span class='op'>=</span> <span class='st'>"red"</span>,</span>
+<span>           size <span class='op'>=</span> <span class='fl'>33</span>,</span>
+<span>           angle <span class='op'>=</span> <span class='fl'>29</span>,</span>
+<span>           hjust <span class='op'>=</span> <span class='fl'>0</span><span class='op'>)</span></span></code></pre>
 </div>
 </details>
 <img src="ks-test_files/figure-html5/makegraphic-1.png" width="624" />
@@ -2641,7 +2650,30 @@ Show code
 Show code
 </summary>
 <div class="sourceCode">
-<pre class="sourceCode r"><code class="sourceCode r"><span><span class='co'># dev.off()</span></span></code></pre>
+<pre class="sourceCode r"><code class="sourceCode r"><span><span class='co'># dev.off()</span></span>
+<span></span>
+<span><span class='co'>### different sizing to get nice png</span></span>
+<span><span class='co'># png(file = "KStest.png", type = "cairo", width = 6000, height = 4800, res = 300)</span></span>
+<span><span class='co'># ggplot(data = tibRnorm,</span></span>
+<span><span class='co'>#        aes(x = x)) +</span></span>
+<span><span class='co'>#   geom_histogram(aes(x = x,</span></span>
+<span><span class='co'>#                      after_stat(density)),</span></span>
+<span><span class='co'>#                  bins = 20,</span></span>
+<span><span class='co'>#                  alpha = .6) +</span></span>
+<span><span class='co'>#   geom_line(data = tibDnorm,</span></span>
+<span><span class='co'>#             inherit.aes = FALSE,</span></span>
+<span><span class='co'>#             aes(x = x, y = y))  +</span></span>
+<span><span class='co'>#   geom_vline(xintercept = 0) +</span></span>
+<span><span class='co'>#   ### changed parameters for the png</span></span>
+<span><span class='co'>#   annotate("text",</span></span>
+<span><span class='co'>#            label = "K-S test",</span></span>
+<span><span class='co'>#            x = -2.5,</span></span>
+<span><span class='co'>#            y = .1,</span></span>
+<span><span class='co'>#            colour = "red",</span></span>
+<span><span class='co'>#            size = 120,</span></span>
+<span><span class='co'>#            angle = 32,</span></span>
+<span><span class='co'>#            hjust = 0)</span></span>
+<span><span class='co'># dev.off()</span></span></code></pre>
 </div>
 </details>
 </div>

diff --git a/_site/index.html b/_site/index.html
@@ -2684,7 +2684,7 @@ function init_posts_list() {
 <a href="posts/2023-11-15-test-fit-to-gaussian/" class="post-preview">
 <script class="post-metadata" type="text/json">{"categories":["R tricks","distributions","distribution tests","Null hypothesis tests (NHSTs)","Gaussian distribution"]}</script>
 <div class="metadata">
-<div class="publishedDate">Nov. 14, 2023</div>
+<div class="publishedDate">Nov. 15, 2023</div>
 <div class="dt-authors">
 <div class="dt-author">Chris Evans</div>
 </div>
